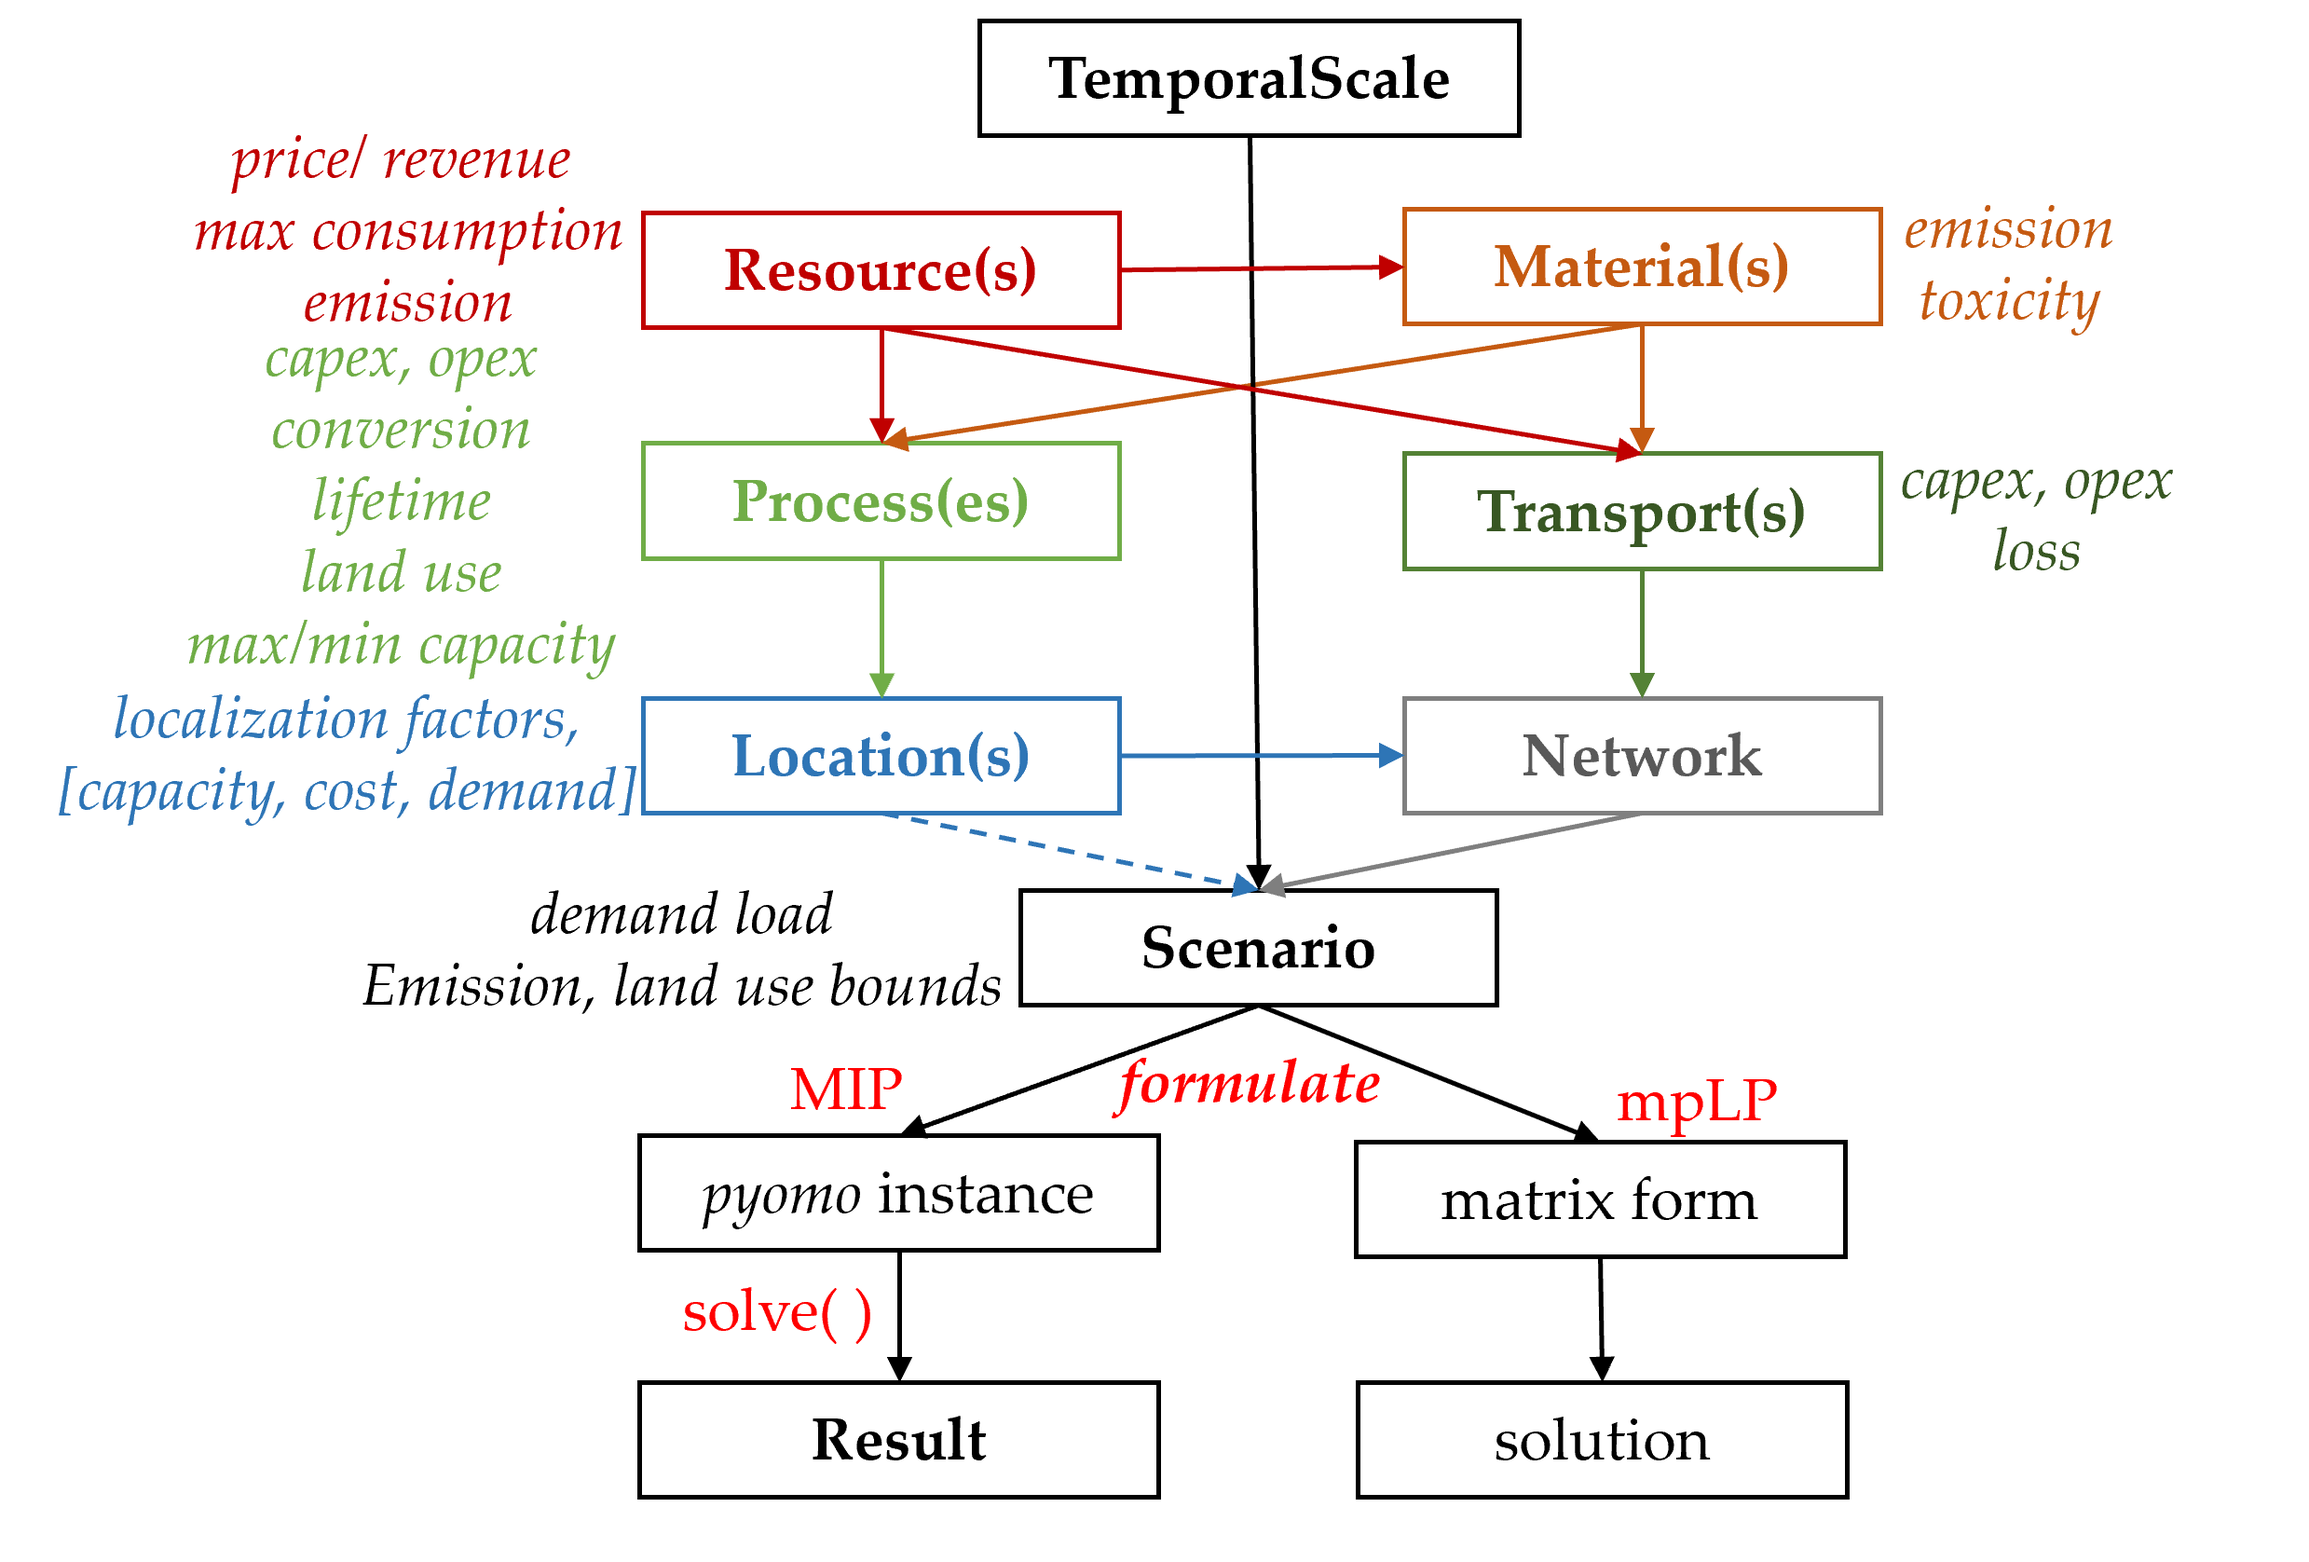
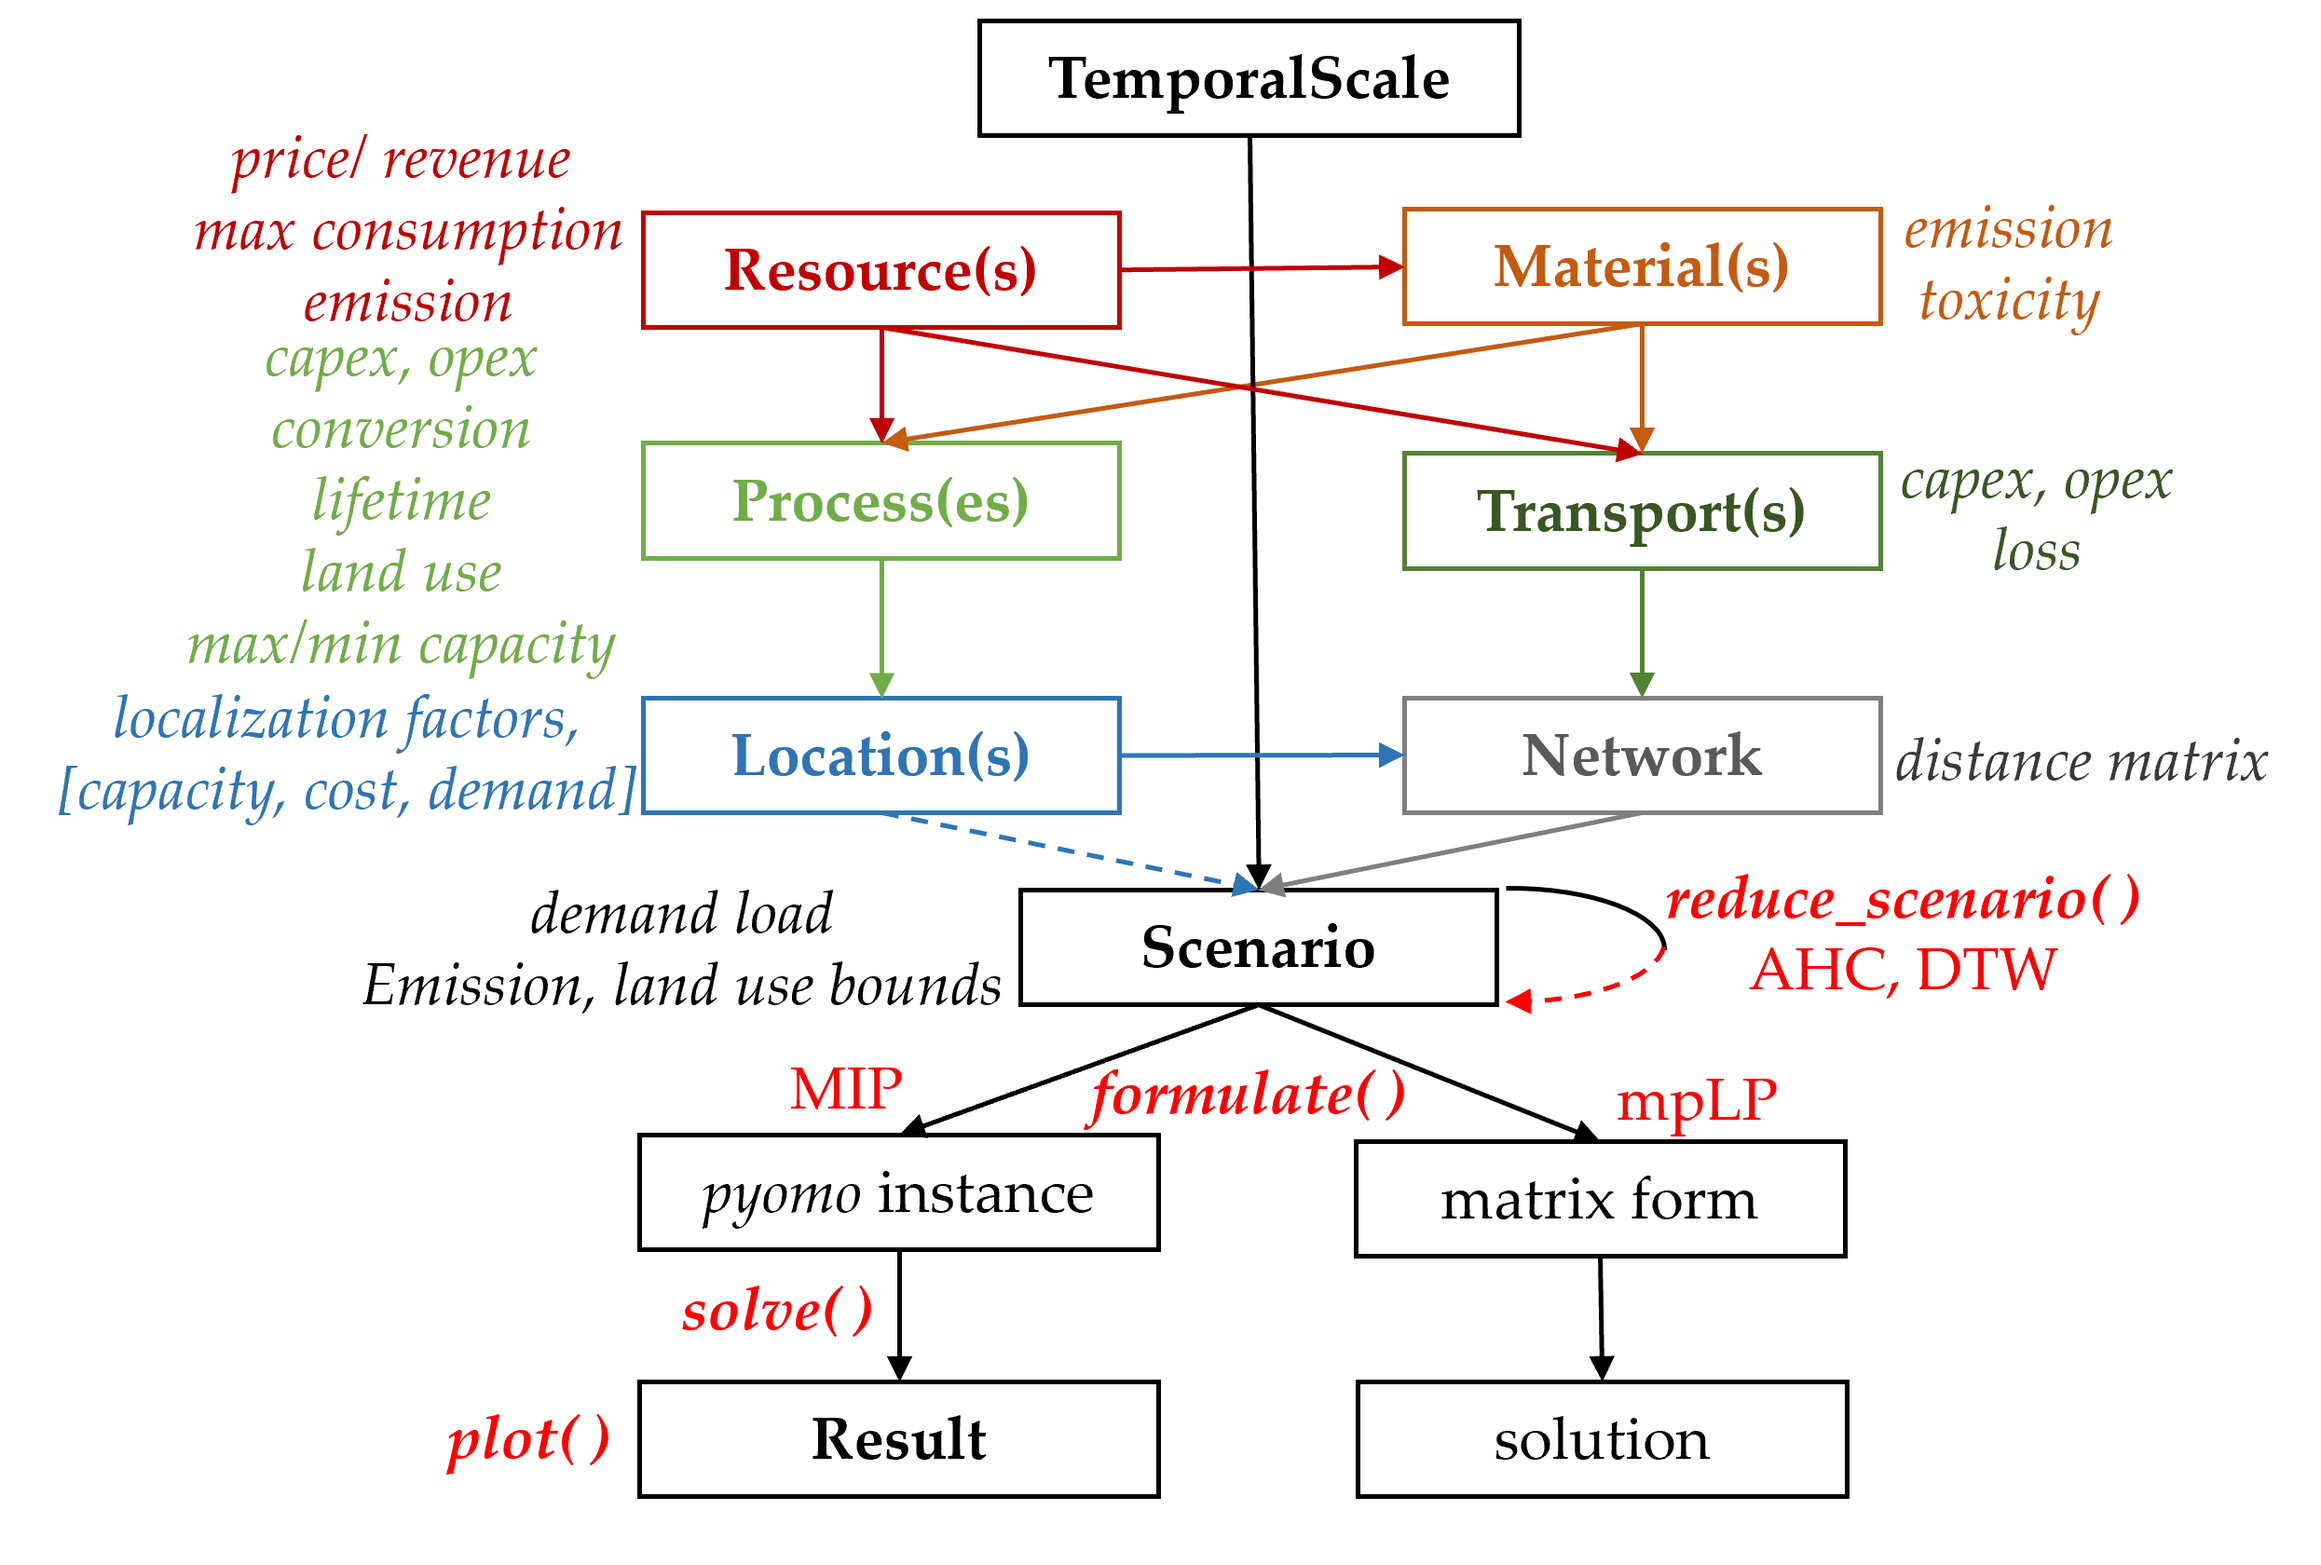
new pic

diff --git a/src/energiapy/model/constraints/cost.py b/src/energiapy/model/constraints/cost.py
@@ -63,6 +63,8 @@ def constraint_transport_imp_cost(instance: ConcreteModel, scheduling_scale_leve
     Returns:
         Constraint: transport_imp_cost
     """
+    scales = scale_list(instance=instance,
+                        scale_levels=scheduling_scale_level+1)
 
     def transport_imp_cost_rule(instance, sink, source, resource, transport, *scale_list):
         if trans_cost is None:
@@ -72,7 +74,10 @@ def constraint_transport_imp_cost(instance: ConcreteModel, scheduling_scale_leve
             return Constraint.Skip
 
         return instance.Trans_imp_cost[sink, source, resource, transport, scale_list[:scheduling_scale_level+1]] == trans_cost[transport]*distance_dict[(source, sink)]*instance.Trans_imp[sink, source, resource, transport, scale_list[:scheduling_scale_level+1]]
-
+    
+    instance.constraint_transport_imp_cost = Constraint(instance.sinks, instance.sources, instance.resources_trans,
+                                                        instance.transports, *scales, rule=transport_imp_cost_rule, doc='import of resource from sink to source')
+    
     constraint_latex_render(transport_imp_cost_rule)
     return instance.constraint_transport_imp_cost
 

diff --git a/src/energiapy/utils/latex_utils.py b/src/energiapy/utils/latex_utils.py
@@ -29,6 +29,8 @@ def constraint_latex_render(constraint_rule, latex_alias_dict: dict = None) -> s
         latex_alias_dict = dict()
 
     general_dict = {
+        'product': '\prod',
+        'sum': '\sum',
         '**': '^',
         '*': '.',
         '==': '=',
@@ -76,7 +78,7 @@ def constraint_latex_render(constraint_rule, latex_alias_dict: dict = None) -> s
         'source': 'l^{source}',
         'sink': 'l^{sink}',
         'transport_': 't',
-        'transport': 't'
+        'transport': 't',
     }
 
     unsorted_dict_ = {**latex_alias_dict, **general_dict}
@@ -92,13 +94,13 @@ def constraint_latex_render(constraint_rule, latex_alias_dict: dict = None) -> s
         str_ = str_.replace(key, dict_[key])
 
     # str_ = '\begin{equation}'
-    # display(str_)
+
     print_ = str(constraint_rule)
     print_ = print_.split('<function ')[1]
     try:
         print_ = print_.split('.<locals>')[0]
-    except Exception:
-        print_ = print_.split(' at')[0]
+    except:
+        print_ = print_.split('at')[0]
     finally:
         print_ = print_
     print_ = print_.replace('_', ' ')

diff --git a/src/energiapy/components/temporal_scale.py b/src/energiapy/components/temporal_scale.py
@@ -61,7 +61,7 @@ class TemporalScale:
         Returns:
             List[tuple]: list of tuples with representing the scales 
         """
-        return [(i,) for i in product(*[self.scale[i] for i in self.scale][:scale_level+1])]
+        return [i for i in product(*[self.scale[i] for i in self.scale][:scale_level+1])]
 
     def __repr__(self):
         return self.name
